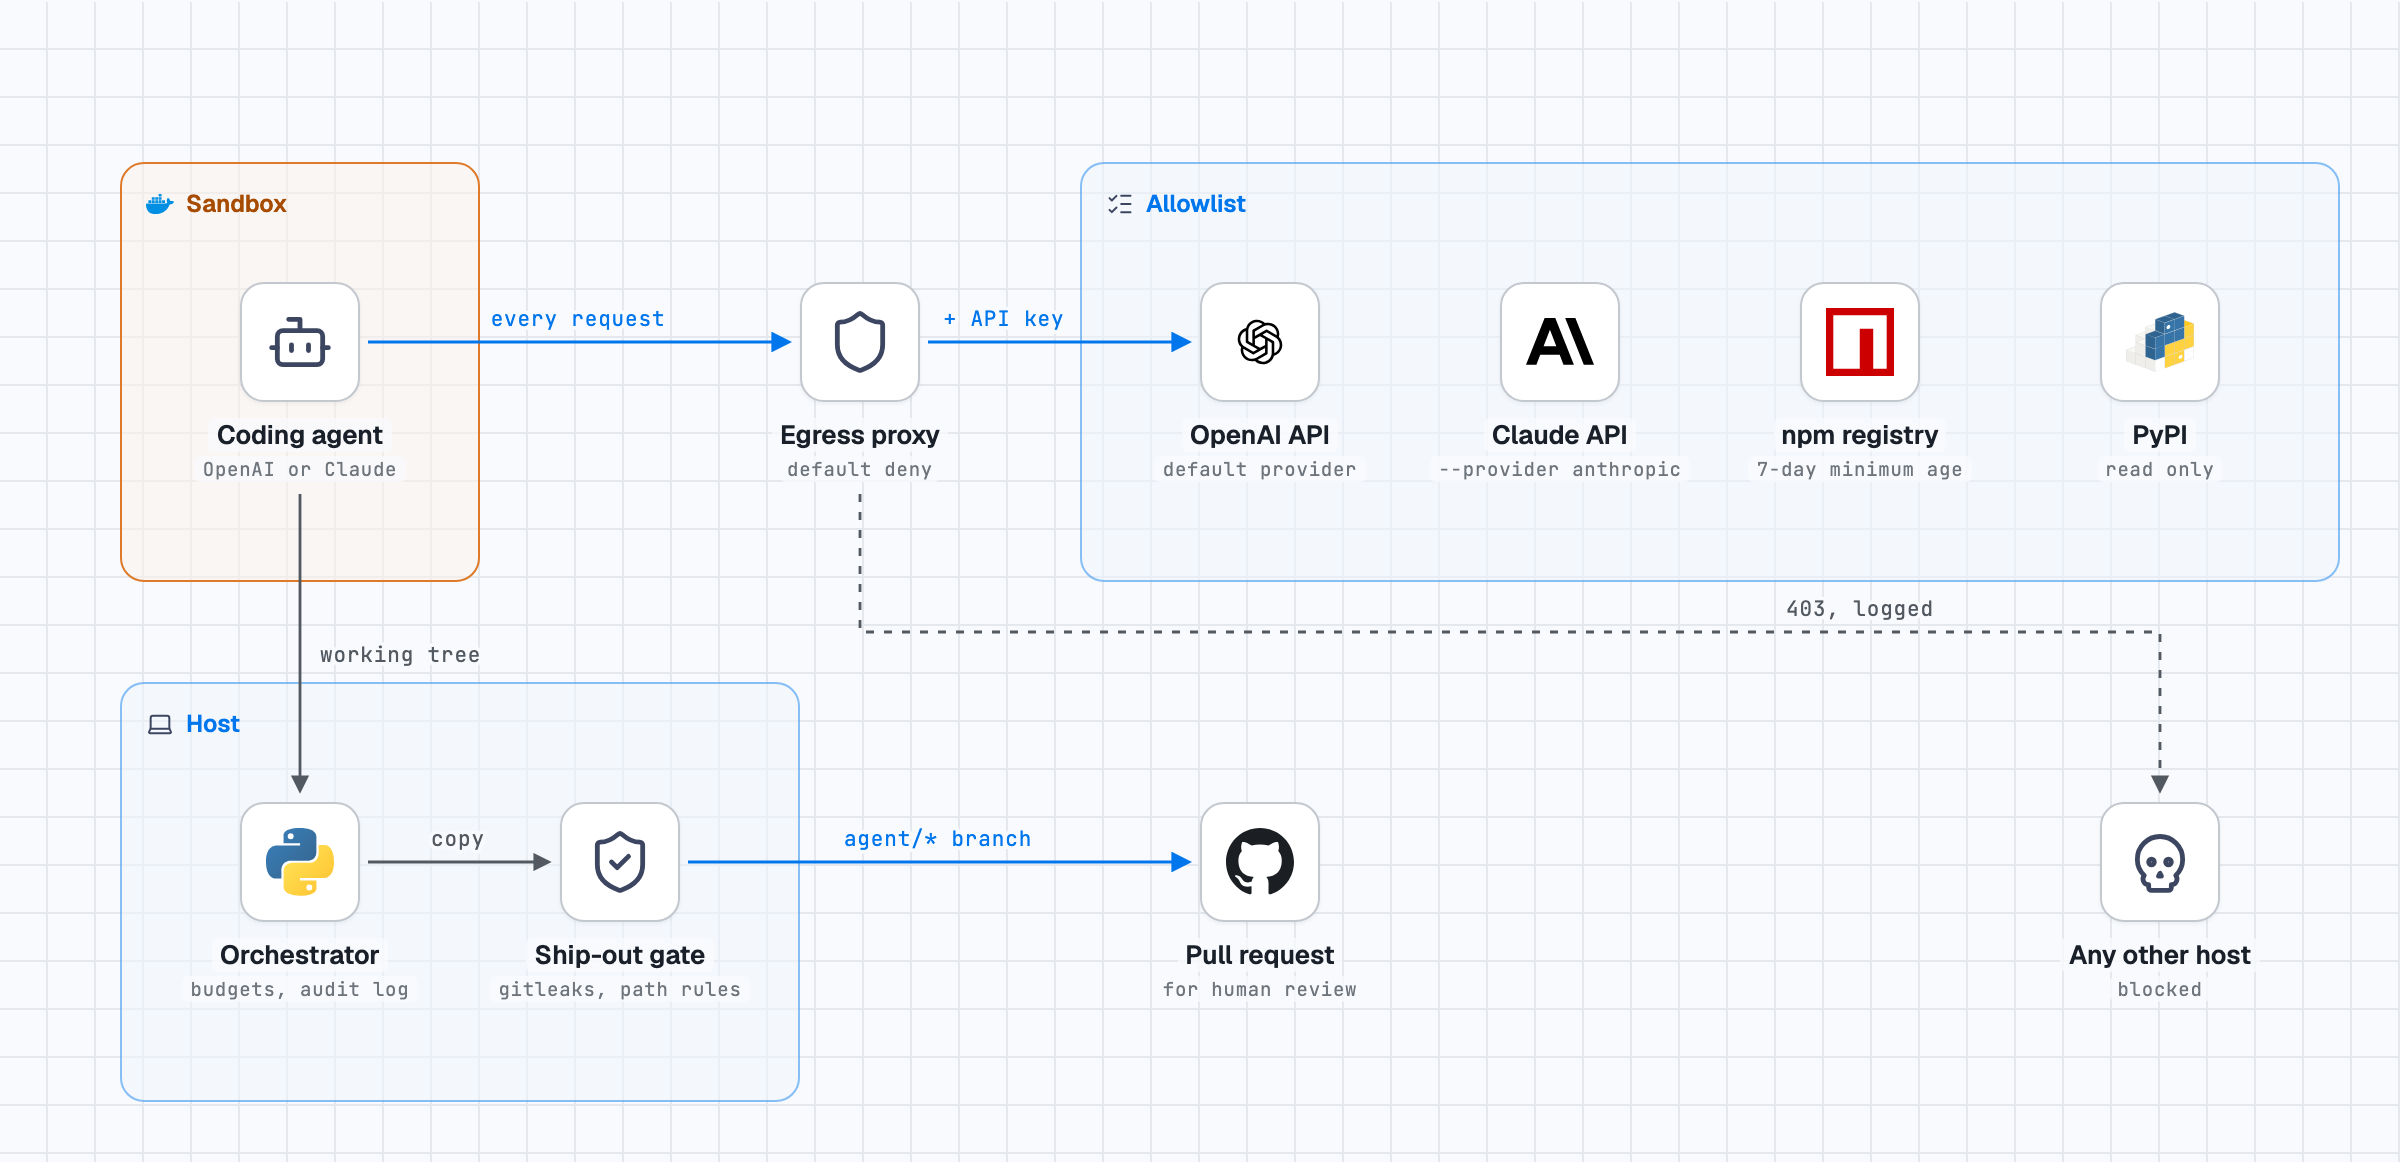
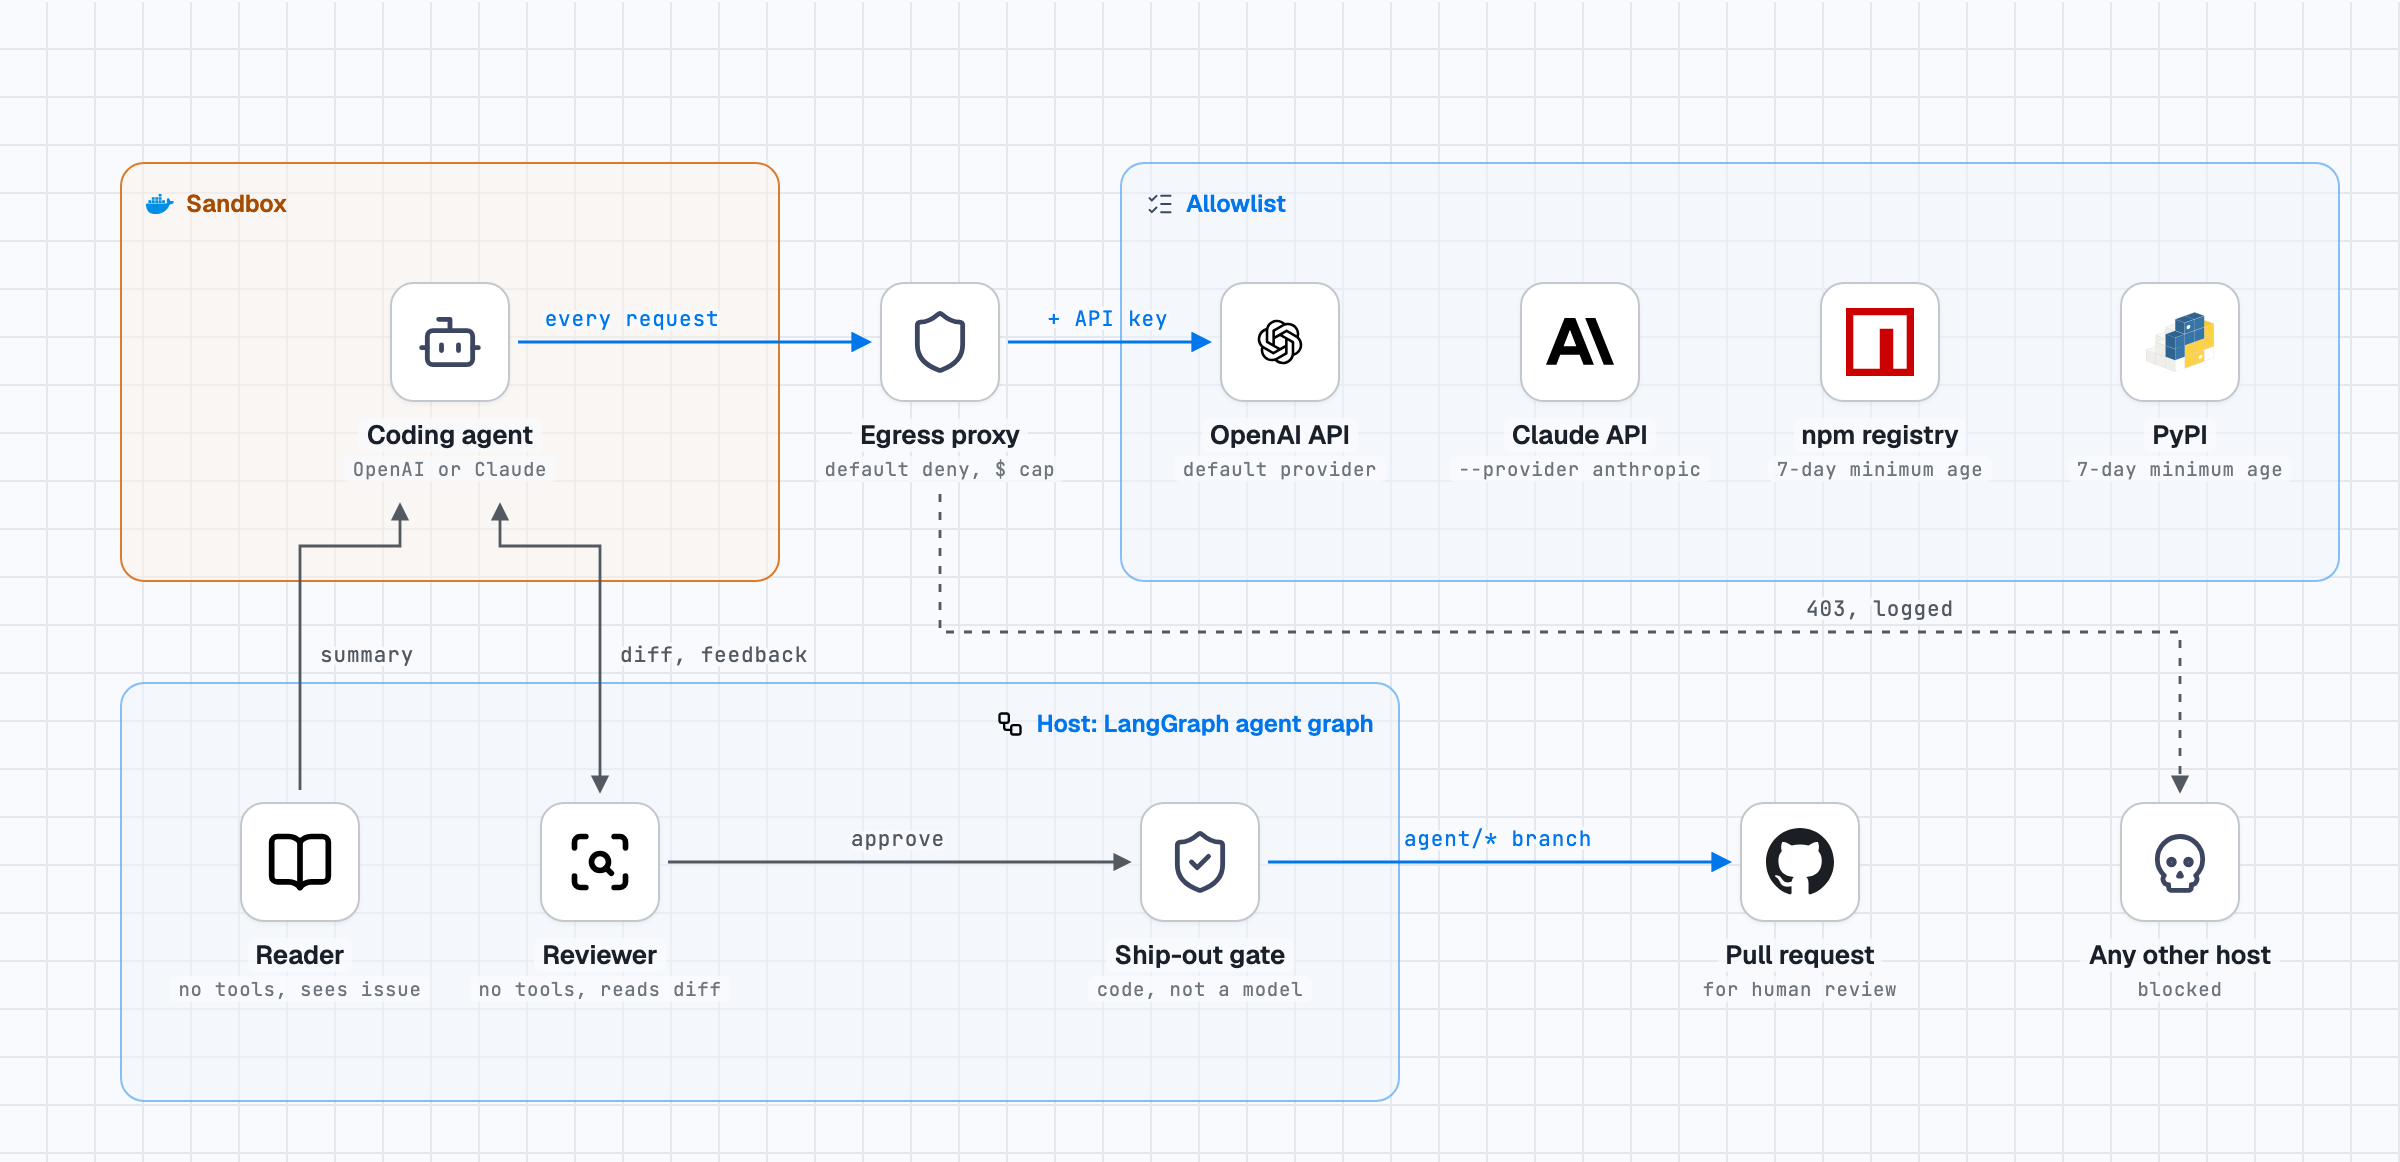
Show the reader and reviewer in the diagram and list the reviewer's gaps
The architecture diagram now shows the LangGraph agent graph on the
host: the reader passing its summary to the coder, the reviewer trading
diffs and feedback with it, and the gate between the reviewer and the
pull request.

The threat model adds the reviewer's blind spots as a known gap: it
sees only the diff, its feedback can help a steered coder hide a change,
and CI doesn't test it. The measurement row notes that reviewer attacks
run with make eval-review.

diff --git a/docs/threat-model.md b/docs/threat-model.md
@@ -33,7 +33,7 @@ Nothing in the sandbox can write to the audit log, the policy or the clean clone
 | Malicious code in an ordinary file | A tool-less reviewer reads the diff against the task and can send it back or reject the run. Its approval never skips the gate. | `backdoor-in-fix` (needs an API key: `make eval-review`) |
 | Runaway spend | The proxy prices every model response and halts the run at the dollar cap. Unpriced models are refused. | Unit tests |
 | Untrusted content steers the agent | A tool-less reader summarises issues into a schema. Repo settings (`.claude/`) are not loaded. Every other control assumes the agent is already steered. | `make replay` with a live agent |
-| No way to measure | The red-team suite runs every attack with and without Sentinel in CI. | `make eval` |
+| No way to measure | The red-team suite runs every attack with and without Sentinel in CI. Attacks that only the reviewer can stop need an API key, so they run locally with `make eval-review` instead. | `make eval`, `make eval-review` |
 
 ## The example attack
 
@@ -50,10 +50,11 @@ The scenario from the design doc, step by step:
 These are open, roughly in order of how much they matter.
 
 1. Malicious code in an accepted pull request. The gate catches secrets and protected files but can't tell a subtle backdoor from a bug fix. The reviewer model catches obvious cases, but it is a model reading a diff the attacker may have written for it, so a well-disguised backdoor or a comment aimed at the reviewer can get past. Review agent PRs the way you'd review an outside contributor's.
-2. CI runs on agent branches. A push to `agent/*` in the same repo triggers `push` workflows with repository secrets, running the agent's code (its tests, for instance). The gate stops the agent editing workflows, but an existing workflow that runs `npm test` with secrets in its environment would still expose them to the agent's test code. Keep secret-bearing jobs off `agent/**` branches or behind environments with required reviewers. See [github-setup.md](github-setup.md).
-3. Covert channels through allowed hosts. The agent can encode data in package names it looks up on npm or PyPI, or in paths on the model API. The bandwidth is low and the canary scan covers known secrets, but arbitrary repository data could leave this way. Setting `npm_allow` and `pypi_allow` in the policy closes the package route.
-4. Spend counting has edges. The proxy prices responses after they arrive, so one call can overshoot the cap before the run halts, and a call that breaks off before its response arrives isn't counted at all, although the provider may still bill it. Cache reads are counted at the full input price, which overstates spend. The host-side reader and reviewer aren't counted.
-5. Container isolation. The sandbox shares the host kernel. A kernel exploit escapes it. gVisor or a Firecracker microVM would close this.
-6. Reader summaries and reviewer feedback can still carry text. The schemas, length limits and URL stripping shrink what an attacker can pass through them. They can't remove it, so the downstream controls assume the agent is steered regardless.
-7. Canary evasion. An agent that knows the canaries could encrypt them before sending. That only matters if a channel out exists, and the egress controls are what remove the channel. Canaries are for detection.
-8. Installs aren't pinned to lockfile hashes. The gate stops dependency changes from shipping, but inside the sandbox the agent can still install any package that passes the age check and allowlists. A private mirror with hash checking would close this.
+2. The reviewer has blind spots of its own. It sees the diff, not the whole repository, so a change that is only harmful in context (a new default, a call into existing code) can look harmless. If it asks for changes to a harmful diff instead of rejecting it, its feedback tells a steered coder what was noticed, and the coder gets another round to hide it better. And it is tested by one live scenario that CI doesn't run, so a model update could weaken it without any check failing. Run `make eval-review` after changing the reviewer's model or prompt.
+3. CI runs on agent branches. A push to `agent/*` in the same repo triggers `push` workflows with repository secrets, running the agent's code (its tests, for instance). The gate stops the agent editing workflows, but an existing workflow that runs `npm test` with secrets in its environment would still expose them to the agent's test code. Keep secret-bearing jobs off `agent/**` branches or behind environments with required reviewers. See [github-setup.md](github-setup.md).
+4. Covert channels through allowed hosts. The agent can encode data in package names it looks up on npm or PyPI, or in paths on the model API. The bandwidth is low and the canary scan covers known secrets, but arbitrary repository data could leave this way. Setting `npm_allow` and `pypi_allow` in the policy closes the package route.
+5. Spend counting has edges. The proxy prices responses after they arrive, so one call can overshoot the cap before the run halts, and a call that breaks off before its response arrives isn't counted at all, although the provider may still bill it. Cache reads are counted at the full input price, which overstates spend. The host-side reader and reviewer aren't counted.
+6. Container isolation. The sandbox shares the host kernel. A kernel exploit escapes it. gVisor or a Firecracker microVM would close this.
+7. Reader summaries and reviewer feedback can still carry text. The schemas, length limits and URL stripping shrink what an attacker can pass through them. They can't remove it, so the downstream controls assume the agent is steered regardless.
+8. Canary evasion. An agent that knows the canaries could encrypt them before sending. That only matters if a channel out exists, and the egress controls are what remove the channel. Canaries are for detection.
+9. Installs aren't pinned to lockfile hashes. The gate stops dependency changes from shipping, but inside the sandbox the agent can still install any package that passes the age check and allowlists. A private mirror with hash checking would close this.

diff --git a/README.md b/README.md
@@ -6,7 +6,7 @@ A secure harness for autonomous coding agents. The agent gets a shell and a repo
 
 <picture>
   <source media="(prefers-color-scheme: dark)" srcset="docs/architecture-dark.png">
-  <img alt="The coding agent runs in a Docker sandbox. Every request goes through an egress proxy that allows only the model API in use (OpenAI or Claude), npm and PyPI, and adds the API key itself. Other hosts get a 403. The orchestrator copies the agent's working tree to a ship-out gate, which opens a pull request on an agent/* branch." src="docs/architecture.png">
+  <img alt="The coding agent runs in a Docker sandbox. Every request goes through an egress proxy that allows only the model API in use (OpenAI or Claude), npm and PyPI, adds the API key itself and enforces a dollar cap. Other hosts get a 403. On the host, a LangGraph agent graph runs a tool-less reader that turns the issue into a summary for the agent, and a tool-less reviewer that reads the diff and can send feedback back. Approved work goes to the ship-out gate, plain code, which opens a pull request on an agent/* branch." src="docs/architecture.png">
 </picture>
 
 ## Why
